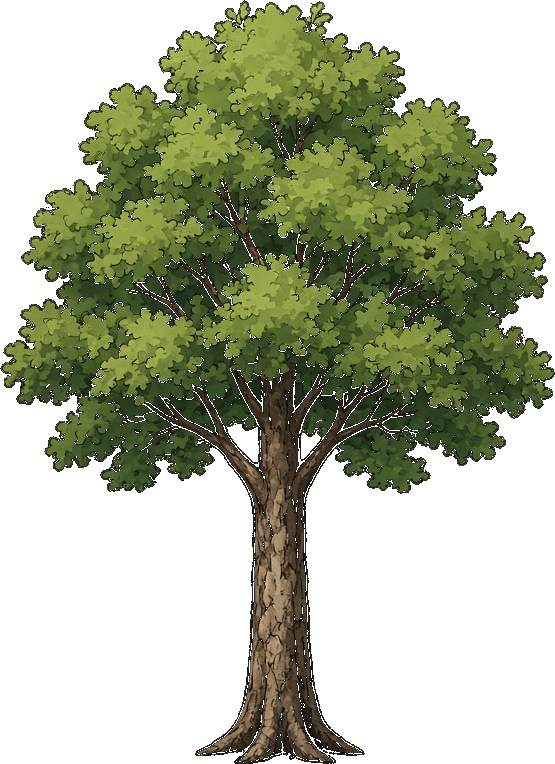
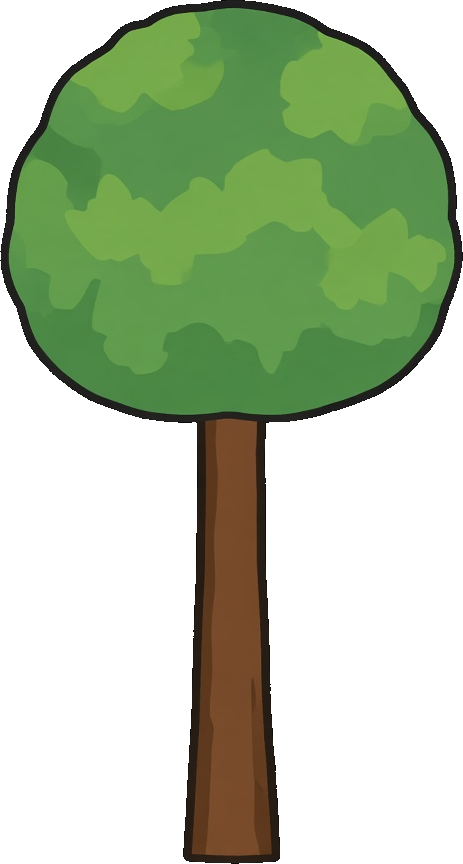
Remake the bench along the road and flatten the tree.
Both use the shop outline. The bench length runs up the street.

diff --git a/game-data.js b/game-data.js
@@ -44,8 +44,8 @@ const DETAILS = [
   { name: 'lamp', x: 646, y: 1956, w: 150, h: 715 },
   { name: 'postbox', file: 'postbox.png', w: 400, h: 900, cap: 64 },
   { name: 'bin', file: 'bin.png', w: 571, h: 750, cap: 52 },
-  { name: 'bench', file: 'bench.png?v=3', w: 280, h: 360, cap: 70 },
-  { name: 'tree', file: 'tree.png', w: 555, h: 764, cap: 78 },
+  { name: 'bench', file: 'bench.png?v=4', w: 411, h: 672, cap: 64 },
+  { name: 'tree', file: 'tree.png?v=2', w: 463, h: 864, cap: 78 },
   { name: 'board', file: 'board.png', w: 635, h: 940, cap: 58 }
 ];
 

diff --git a/index-new.html b/index-new.html
@@ -72,7 +72,7 @@
     </div>
   </div>
 
-<script src="game-data.js?v=22"></script>
+<script src="game-data.js?v=23"></script>
 <script src="game.js?v=62"></script>
 </body>
 </html>

diff --git a/index-new.html.html b/index-new.html.html
@@ -72,7 +72,7 @@
     </div>
   </div>
 
-<script src="game-data.js?v=22"></script>
+<script src="game-data.js?v=23"></script>
 <script src="game.js?v=62"></script>
 </body>
 </html>

diff --git a/index.html b/index.html
@@ -72,7 +72,7 @@
     </div>
   </div>
 
-<script src="game-data.js?v=22"></script>
+<script src="game-data.js?v=23"></script>
 <script src="game.js?v=62"></script>
 </body>
 </html>
